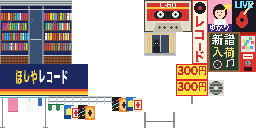
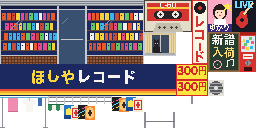
Shrine town: the texture budgets re-split for 2 MB of VRAM, the delivery van and three signs back
The regions use slots 13-1 and 16-31 (slot 0 is the far views' stand-in set): the town 668 KB,
the shrine 460 KB, each with 64 KB reserved for that set and headroom in every zone
(TEXTURES.md, "The budgets"). The shrine's palettes start at 256, leaving the town 0-253. The
delivery van is parked on the front road again, and the record shop's, the coin laundry's and
the crane game's signs are stored at full width.

diff --git a/carts/garden/shrinetown/make_world.py b/carts/garden/shrinetown/make_world.py
@@ -111,14 +111,20 @@ STANDINS = {'distance': 128, 'sweeps': True, 'triangles': 90, 'ground': 32, 'cel
 shrine = json.loads((ST.parent / 'shrine' / 'shrine.world.json').read_text())
 
 # ---- texture regions (TEXTURES.md): the town (rows 0-1) and the shrine (rows 2-5). Each has its own
-# texture set in slots 13-0 (slot 14 holds the swatch row, 15 the fonts); entering one loads its set
-# over the other's. The budgets are the plan's totals, each zone's allowance and the ground's:
-# 380 KB of the town's 448 (15% free) and 300 KB of the shrine's (a third free). The shrine's palette
-# variants (day, night), a copy per region, without its night's water colour (the water is textured:
-# the night's multiply tints it, art/water/APPLY.md); each region its own backdrop, from
-# art/backdrop/backdrop.json (art/backdrop/APPLY.md): a sky and a far view drawn for the streets and
-# one for the shrine's grounds and mountain, with the night's exact colours.
-TEXTURE_BUDGETS = {'town': 380 * 1024, 'shrine': 300 * 1024}
+# texture set in slots 13-1 and 16-31 (VRAM at 2 MB; slot 14 holds the swatch row and the star, 15
+# the fonts, 0 the far views' common stand-in set); entering one loads its set over the other's,
+# about 0.94 cycles a byte, so a budget is also the crossing's cost. The budgets are the zones'
+# allowances, the ground's and 64 KB for the far views: 668 KB for the town, 460 KB for the shrine
+# (TEXTURES.md, "The budgets"). The
+# shrine's palettes start at 256, in palette bank 1, so the town has 0-253 (254 is the star's, 255
+# the fonts'). The shrine's palette variants (day, night), a copy per region, without its night's
+# water colour (the water is textured: the night's multiply tints it, art/water/APPLY.md); each
+# region its own backdrop, from art/backdrop/backdrop.json (art/backdrop/APPLY.md): a sky and a far
+# view drawn for the streets and one for the shrine's grounds and mountain, with the night's exact
+# colours.
+TEXTURE_SLOTS = '13-1,16-31'
+TEXTURE_BUDGETS = {'town': 668 * 1024, 'shrine': 460 * 1024}
+PALETTES = {'shrine': {'first': 256}}
 BD = json.loads((ST / 'art' / 'backdrop' / 'backdrop.json').read_text())
 
 
@@ -133,7 +139,8 @@ def variants(r):
     return v
 
 
-regions = {r: {'textures': {'slots': '13-0', 'budget': TEXTURE_BUDGETS[r]},
+regions = {r: {'textures': {'slots': TEXTURE_SLOTS, 'budget': TEXTURE_BUDGETS[r]},
+               **({'palettes': PALETTES[r]} if r in PALETTES else {}),
                'variants': variants(r),
                'backdrop': {'elevations': BD[r]['elevations'], 'sky': BD[r]['sky'],
                             'silhouette': {'image': f'art/backdrop/{r}_backdrop.png', 'horizon': BD[r]['horizon'],

diff --git a/carts/garden/shrinetown/tools/textures.py b/carts/garden/shrinetown/tools/textures.py
@@ -38,14 +38,18 @@ from worldkit.assets import asset_directories                 # noqa: E402
 from worldkit.textures import allocated                       # noqa: E402
 
 KB = 1024
-# The plan (TEXTURES.md): each region's budget (make_world.py's TEXTURE_BUDGETS) split into the
-# terrain's textures, the shared set and each zone's own tiles.
+# The plan (TEXTURES.md, "The budgets"): each region's budget (make_world.py's TEXTURE_BUDGETS)
+# split into the terrain's textures (with the water and the edges), the shared set, each zone's own
+# tiles and a reserve no part may use: 64 KB for the far views' common stand-in set (tree
+# silhouette cards for the far levels and the stand-ins; slot 0 in every region), counted when it
+# lands. Since VRAM grew to 2 MB (2026-10-05).
 ALLOWANCE = {
-    'town': {'budget': 380 * KB, 'terrain': 40 * KB, 'shared': 48 * KB,
-             'station': 96 * KB, 'street': 143 * KB, 'east': 26 * KB, 'canal': 26 * KB, 'shrine': 1 * KB},
-    'shrine': {'budget': 300 * KB, 'terrain': 120 * KB, 'shared': 48 * KB,
-               'shrine': 88 * KB, 'canal': 36 * KB, 'station': 8 * KB, 'street': 0, 'east': 0},
+    'town': {'budget': 668 * KB, 'terrain': 96 * KB, 'shared': 96 * KB, 'station': 128 * KB,
+             'street': 192 * KB, 'east': 48 * KB, 'canal': 40 * KB, 'shrine': 4 * KB, 'reserve': 64 * KB},
+    'shrine': {'budget': 460 * KB, 'terrain': 152 * KB, 'shared': 64 * KB, 'shrine': 120 * KB,
+               'canal': 48 * KB, 'station': 12 * KB, 'street': 0, 'east': 0, 'reserve': 64 * KB},
 }
+assert all(sum(v for k, v in a.items() if k != 'budget') == a['budget'] for a in ALLOWANCE.values())
 # Props any zone of the region may place: their tiles are the region's shared set's.
 SHARED = {
     'town': ['town_street_lamp', 'street_lamp', 'vending_machine', 'postbox', 'town_road_signs', 'delivery_van',
@@ -178,7 +182,8 @@ def main():
         flag = total > allow['budget']
         over |= flag
         print(f'{region}: {total:,} of {allow["budget"]:,} bytes{" OVER" if flag else ""} '
-              f'({len(every)} tiles; slots 13-0 hold {14 * 32 * KB:,})')
+              f'({len(every)} tiles; entering the region: about {round(total * 0.94 + 33000, -3):,.0f} cycles, TEXTURES.md)')
+        rows.append(('reserve', 0, allow['reserve']))
         for name, used, cap in rows:
             flag = used > cap
             over |= flag

diff --git a/carts/garden/shrinetown/place/street.py b/carts/garden/shrinetown/place/street.py
@@ -214,8 +214,9 @@ def town(g):
         put(f'zelkova_road{k}', 'tree_zelkova', (float(x), 0.0, float(z)), 53 * k)
     for k, x in enumerate((85.0, 115.0, 140.0, 182.0, 204.0)):
         put(f'lamp_road{k}', 'street_lamp', (x, 0.0, 117.2), 90)
-    # (the delivery van, 14 KB of the region's shared set for one prop, is left out: its mirrored
-    # side would read backwards, and the shared set has no room for it whole; TEXTURES.md)
+    # the delivery van, parked in the south lane between the poles at x 70 and 100 (left out while
+    # the town's shared set had no room for its 14 KB; back with 2 MB of VRAM, TEXTURES.md)
+    put('van_road', 'delivery_van', (85.0, 0.0, 108.6), 90)
     put('signs_alley', 'town_road_signs', (100.75, 0.0, 102.9), 180, col='none')
     put('mirror_alley_0', 'traffic_mirror', (124.8, 0.0, 103.3), 180)
     put('mirror_alley_1', 'traffic_mirror', (88.8, 0.0, 103.3), 180)
@@ -339,7 +340,7 @@ LOD = {'ramen_shop': {'distances': [16, 45]}, 'recordshop': {'distances': [20, 5
        # recipes, or never: from the platform the shotengai's lamps and the alleys' props were drawn
        'town_street_lamp': {'cull': 60}, 'street_lamp': {'cull': 70}, 'gachapon': {'cull': 40},
        'jizo': {'cull': 40}, 'town_kanban_set': {'cull': 45}, 'town_road_signs': {'cull': 60},
-       'firepost': {'cull': 50}, 'traffic_mirror': {'cull': 50}, 'kei_truck': {'cull': 60},
+       'firepost': {'cull': 50}, 'traffic_mirror': {'cull': 50}, 'kei_truck': {'cull': 60}, 'delivery_van': {'cull': 60},
        'recycling_station': {'cull': 50}, 'crane_game': {'cull': 45},
        'town_crates_bins': {'cull': 40},
        # the poles with their wires (the sweeps are culled at 56): from over the station the

diff --git a/carts/garden/shrinetown/assets/crane_game/art/make_art.py b/carts/garden/shrinetown/assets/crane_game/art/make_art.py
@@ -52,8 +52,6 @@ def sign():
         star(d, cx, cy, r, (255, 240, 90))
     f = font(18)
     outlined(d, (17, 10), "クレーンゲーム", f, (255, 252, 230), (120, 20, 80), 1)
-    # stored at half width (80 x 40, the face stretches it back): the town's texture budget (TEXTURES.md)
-    im = im.resize((W // 2, H), Image.Resampling.BOX)
     im = im.quantize(colors=48, dither=Image.Dither.NONE).convert("RGB")
     im.save(os.path.join(HERE, "sign.png"))
 
@@ -96,7 +94,6 @@ def side():
     outlined(d, (12, 12), "GET!", font(17), (214, 38, 120), (255, 255, 255), 1)
     d.text((20, 3), "とって", font=font(8), fill=(60, 40, 90))
     d.text((20, 29), "ゲット", font=font(7), fill=(60, 40, 90))
-    im = im.resize((W // 2, H), Image.Resampling.BOX)        # half width: as the sign
     im = im.quantize(colors=24, dither=Image.Dither.NONE).convert("RGB")
     im.save(os.path.join(HERE, "side.png"))
 
@@ -107,7 +104,6 @@ def label():
     d = ImageDraw.Draw(im)
     d.rectangle([0, 0, W - 1, H - 1], outline=(60, 40, 90))
     d.text((6, 1), "とりだしぐち", font=font(13), fill=(60, 40, 90))
-    im = im.resize((W // 2, H), Image.Resampling.BOX)        # half width: as the sign
     im = im.quantize(colors=8, dither=Image.Dither.NONE).convert("RGB")
     im.save(os.path.join(HERE, "label.png"))
 

diff --git a/carts/garden/shrinetown/assets/coin_laundry/make_coin_laundry.py b/carts/garden/shrinetown/assets/coin_laundry/make_coin_laundry.py
@@ -17,9 +17,9 @@ front (110 triangles) is left to the town's `mamachari` placements, and the asht
 plastic chairs went for triangles.
 
 Textures: art/coin_laundry_sheet.png is the lab's sheet (drawn by
-examples/assets/lab/coin_laundry/art/draw_sheet.py), copied by this script with its glass front
-and its sign stored at half width (the faces stretch them back; the town's texture budget,
-TEXTURES.md; needs Pillow); the back door and window come from the shop family's shared
+examples/assets/lab/coin_laundry/art/draw_sheet.py), copied by this script (needs Pillow; the
+glass front and the sign were stored at half width for 1 MB of VRAM, and are whole again with
+2 MB: HALVED); the back door and window come from the shop family's shared
 ../town_shop_2f_a/art/shopfront.png."""
 import json
 from pathlib import Path
@@ -28,7 +28,7 @@ from PIL import Image
 
 HERE = Path(__file__).resolve().parent
 LAB_ART = HERE.parents[4] / 'examples' / 'assets' / 'lab' / 'coin_laundry' / 'art'
-HALVED = ('glass', 'sign')
+HALVED = ()          # the glass front and the sign were halved for 1 MB of VRAM; full width since 2 MB
 
 
 def copy_sheet():

diff --git a/carts/garden/shrinetown/assets/crane_game/gen_crane_game.py b/carts/garden/shrinetown/assets/crane_game/gen_crane_game.py
@@ -5,9 +5,9 @@ Shrine town's UFO catcher: the lab's crane_game (781 triangles) cut to about 200
 cabinet with its slanted console, the glass case with gold posts, the striped marquee with its
 sign, the siren lights and the star stay; the side sticker, the outlet label and the prize hole
 are decals, the console's buttons are in its texture, the claw is a hub and three arms, and three
-plush toys stand in for six. Every texture is 4-bit (the level's palettes, TEXTURES.md), and the
-sign, the side sticker and the outlet label are stored at half width (the town's VRAM). Front is
--Z. 0.94 m wide, 1.28 m deep, 2.2 m tall.
+plush toys stand in for six. Every texture is 4-bit (the level's palettes, TEXTURES.md); the
+sign, the side sticker and the outlet label are at full width again since VRAM grew to 2 MB.
+Front is -Z. 0.94 m wide, 1.28 m deep, 2.2 m tall.
 """
 import json
 import math

diff --git a/carts/garden/shrinetown/assets/recordshop/make_recordshop.py b/carts/garden/shrinetown/assets/recordshop/make_recordshop.py
@@ -237,10 +237,9 @@ def draw_art():
         sheet.paste(im, (x, y))
         CELLS[name] = [x, y, im.size[0], im.size[1]]
 
-    # the glass front and the kanban are stored at half width (the faces stretch them back): the
-    # town's texture budget (TEXTURES.md)
-    put("glass", half_width(draw_glass()), 0, 0)         # 72 x 64 (drawn 144 x 64)
-    put("kanban", half_width(draw_kanban(src)), 0, 64)   # 88 x 32 (drawn 176 x 32)
+    # the glass front and the kanban at full width again (they were halved for 1 MB of VRAM)
+    put("glass", draw_glass(), 0, 0)                     # 144 x 64
+    put("kanban", draw_kanban(src), 0, 64)               # 176 x 32
     put("cassette", lab(src, "cassette"), 144, 0)        # 48 x 32
     put("sode", lab(src, "sode"), 192, 0)                # 16 x 64
     put("poster", lab(src, "poster"), 208, 0)            # 24 x 32

diff --git a/carts/garden/shrinetown/TEXTURES.md b/carts/garden/shrinetown/TEXTURES.md
@@ -2,9 +2,11 @@
 
 How the shrine town's textures fit in VRAM: what the real assets need, the two texture regions,
 where the boundary runs, each zone's allowance for placing the real assets, and the cuts that
-make the town fit. Measured 2026-10-05 on the 110 asset recipes in `assets/` (not `greybox/`) and
-the shrine's 52 in `../shrine/assets/`; the zones are those of the placement split (station,
-street, east, canal, shrine).
+made the town fit in 1 MB. Measured 2026-10-05 on the 110 asset recipes in `assets/` (not
+`greybox/`) and the shrine's 52 in `../shrine/assets/`; the zones are those of the placement split
+(station, street, east, canal, shrine). **Re-split the same day for 2 MB of VRAM**
+(docs/DECISIONS.md, "VRAM at 2 MB"): [The budgets](#the-budgets) and [Palettes](#palettes) are
+current; the plan's tables below them are the 1 MB history.
 
 ## The real need
 
@@ -38,14 +40,79 @@ The ground is not textured yet. The shrine's textured ground is 15 materials, 27
 drawn through a texture window: about 55 cycles a mesh and 10 a visible face more). WORLDKIT.md,
 "Textured terrain", has the rules.
 
-**One region cannot hold it:** 595 KB of assets before the ground, against 448 KB in slots 13–0.
+**With 1 MB, one region could not hold it:** 595 KB of assets before the ground, against 448 KB
+in slots 13–0. With 2 MB a region may use slots 13–0 and 16–31, 960 KB, so one region could hold
+the whole level; the two regions stay, since entering a region copies its whole set and the
+boundary is where the content changes anyway.
+
+## The budgets
+
+Since VRAM grew to 2 MB (2026-10-05). `make_world.py` writes each region's `textures`: slots
+`"13-1,16-31"` and the budget; `tools/textures.py` holds the split. A zone's allowance is what
+it may place; the **reserve** is no part's: 64 KB in each region for the far views' common
+stand-in set (tree silhouette cards for the far levels and the stand-ins, the `far-views`
+branch's `standins.textures`), which takes slot 0 in every region, so the regions' own sets
+leave slot 0 out. That branch also adds hazed copies of the cards' palettes to each region
+([Palettes](#palettes)): the town's 66 free palettes are for those first. The headroom is sized by what
+the zones are likely to want: the delivery van (back, in the town's shared set), the school pool's
+texture (east), 64 × 64 canal and pond textures, lit neighbour windows at night and a textured kerb
+(the ground's allowance, with the water and the edges), and the signs restored at full width.
+
+| Region | Part | Placed now | Allowance | Headroom |
+|---|---|---|---|---|
+| town | ground (the terrain's textures, the water, the edges) | 40,128 | 98,304 (96 KB) | 58,176 |
+| town | shared props | 61,024 | 98,304 (96 KB) | 37,280 |
+| town | station zone | 97,088 | 131,072 (128 KB) | 33,984 |
+| town | street zone | 154,208 | 196,608 (192 KB) | 42,400 |
+| town | east zone | 18,304 | 49,152 (48 KB) | 30,848 |
+| town | canal zone (rows 0–1) | 24,960 | 40,960 (40 KB) | 16,000 |
+| town | shrine zone (the great torii) | 192 | 4,096 (4 KB) | 3,904 |
+| town | reserve (the far views' stand-in set, slot 0) | 0 | 65,536 (64 KB) | 65,536 |
+| town | **budget** | **395,904** | **684,032 (668 KB)** | **288,128** |
+| shrine | ground (the terrain's textures, the water) | 110,144 | 155,648 (152 KB) | 45,504 |
+| shrine | shared props | 29,760 | 65,536 (64 KB) | 35,776 |
+| shrine | shrine zone | 46,112 | 122,880 (120 KB) | 76,768 |
+| shrine | canal zone (rows 2–5) | 30,304 | 49,152 (48 KB) | 18,848 |
+| shrine | station zone (the viaduct in c4_2) | 1,664 | 12,288 (12 KB) | 10,624 |
+| shrine | reserve (the far views' stand-in set, slot 0) | 0 | 65,536 (64 KB) | 65,536 |
+| shrine | **budget** | **217,984** | **471,040 (460 KB)** | **253,056** |
+
+"Placed now" is `tools/textures.py --report` on the world as built (the delivery van back, the
+three restored signs in). The town's 668 KB is about 21 slots' worth and the shrine's 460 KB 14½;
+the packer may use any of the 29 (13–1, 16–31).
+
+**The crossing.** Entering a region copies its texture set (`wp_region_enter()`: `memcpy`, about
+0.95 cycles a byte), its palettes and its backdrop art; the frame that crosses z 128 does that on
+top of its own work. Measured on the console (`wp_region_enter()` timed with `cycle_count()` on the
+built pack):
+
+| Entering | Texture set | Cycles now | At the full budget (estimate) |
+|---|---|---|---|
+| the town (crossing south) | 394,752 bytes of copies (13 slots' rows) | 404,459 (371,163 the textures) | about 675,000 (668 KB) |
+| the shrine (crossing north) | 247,168 bytes (8 slots' rows) | 264,893 (232,408 the textures) | about 475,000 (460 KB) |
+
+Before the re-split the town's entry was 382,960 (the van and the three signs add 21,500). The
+palettes and the backdrop's art are about 33,000 of each entry; the rest is 0.94 cycles a byte of
+texels.
+
+A frame that goes past 1,000,000 CPU cycles is shown a tick late. (Whether the far views' slot 0 is copied on entering a region is that
+branch's; if it is, add about 60,000 to each entry.) The heaviest frames
+within 16 m of the line, as the World Checker measures them, are about 515,000 (views 228, 262,
+263: the canal's and the cemetery lane's ends of the courtyard row). **Now neither crossing
+hitches:** about 920,000 entering the town, 780,000 entering the shrine. Filled to its budget, the
+shrine's entry still fits (about 990,000); **the town's would not** (about 1,190,000: one frame
+shown a tick late, no more, since it stays under 2,000,000). The town fits a frame up to about
+470 KB of textures, 75 KB more than now. Past that the fix is the seam WORLDKIT.md, "Region
+seams", describes and the World Kit can already do: entering the region a slot a frame
+(`wp_texture_load()`) while the player is in the 24 m of open ground the line runs through,
+rather than the whole set at once (`follow_region()` in `game.akr`).
 
 ## The regions
 
 | Region | Cells | Slots | Budget | Free | Palette variants, backdrop |
 |---|---|---|---|---|---|
-| `town` | rows 0–1 (z < 128): 10 cells | 13–0 (458,752) | 389,120 (380 KB) | 15% | the shrine's `day`, `night`; its own (art/backdrop) |
-| `shrine` | rows 2–5 (z ≥ 128): 20 cells | 13–0 (458,752) | 307,200 (300 KB) | 33% | the same variants; its own backdrop |
+| `town` | rows 0–1 (z < 128): 10 cells | 13–1, 16–31 (950,272) | 684,032 (668 KB) | 42% | the shrine's `day`, `night`; its own (art/backdrop) |
+| `shrine` | rows 2–5 (z ≥ 128): 20 cells | 13–1, 16–31 (950,272) | 471,040 (460 KB) | 54% | the same variants; its own backdrop |
 
 `layout.py`'s `region_of(i, j)` says which region a cell is in; the three generators write it into
 the cells and `make_world.py` writes the regions, their `textures` (`slots`, `budget`) and the
@@ -57,9 +124,8 @@ regions is in both sets and loaded with each. DESIGN.md 8.5's common set (asphal
 signs, shared with the city levels) is a plan, not a kit feature; here it is the 10 KB in both.
 
 **Entering a region.** The garden cart enters the region of the cell the player stands in when it
-changes (`game.akr`, `follow_region()`): `wp_region_enter()` copies the region's whole set, about
-56,000 cycles a 32 KB slot, at once. The town's set will be 12 slots or so (about 670,000 cycles),
-the shrine's about 9 (500,000): the frame of a crossing is late. Near cells of the region not
+changes (`game.akr`, `follow_region()`): `wp_region_enter()` copies the region's whole set at
+once (measured: [The budgets](#the-budgets), "The crossing"). Near cells of the region not
 entered draw as their stand-ins.
 
 **Stand-ins.** A stand-in is drawn whichever region is loaded, so in a world with two regions the
@@ -110,8 +176,22 @@ The future downtown district (DESIGN.md 7.1) would be a third region, entered un
 
 ## Palettes
 
-Regions get disjoint palettes and every region's are loaded at once (WORLDKIT.md, "Palettes per
-region"). A world has 255 4-bit palettes (0–254; 255 is the fonts'), and each 8-bit palette takes
+**Now (2 MB).** There are 512 4-bit palettes in two banks: 0–255 and 256–511 (WORLDKIT.md,
+"Palettes per region"). `make_world.py` starts the shrine's palettes at 256, so the town has
+bank 0 to itself: palettes 0–253, since 254 is the star's and 255 the fonts'. The town uses
+0–187, the shrine 256–320 (`report.json`'s `regions.NAME.palette.palettes`):
+
+| Region | Range | Used | Ceiling | Headroom |
+|---|---|---|---|---|
+| town | 0–253 | 188 | 254 | 66 |
+| shrine | 256–511 | 65 | 256, less 16 for each 8-bit palette (from 511 down) | 191 |
+
+The town was the binding limit (palettes 0–185 of the 254 the two regions shared, the shrine
+186–250). 8-bit textures are possible again: the World Kit takes 8-bit palettes from 31 down
+(colours 7936 on, the top of bank 1), so each costs the shrine's range 16 palettes, not the town's.
+
+**Before (1 MB).** Regions get disjoint palettes and every region's are loaded at once
+(WORLDKIT.md, "Palettes per region"). A world has 255 4-bit palettes (0–254; 255 is the fonts'), and each 8-bit palette takes
 16 of them from 14 downward (8-bit palette 14 is 4-bit palettes 224–239). The planned placements
 need, by the kit's own packing (`kitcore/texpack.py`, `assign_palettes`; entries are the assets'
 palette-backed colours, 15 to a palette):
@@ -135,7 +215,7 @@ some palettes of their own), about 20 to spare. So:
 - The kit change that removes the limit (not built): the regions' texture palettes in one range,
   loaded with the region's set, so only the entries, far colours and backdrop stay disjoint.
 
-## Allowances for the placement agents
+## Allowances for the placement agents (1 MB: superseded by [The budgets](#the-budgets))
 
 Each zone's own tiles, its share of the region's shared set and the ground's, against the region's
 budget. A tile of a shared prop (the list below), or one two zones use, is the shared set's; a
@@ -213,7 +293,17 @@ fewer windows.
 
 ## Cuts (the town)
 
-Not made: they are the asset owners' and the zone agents' to make. Exact where a texture goes from
+**With 2 MB.** The zone agents made most of the cuts below (the station's in 29a1ee6, the street's
+and the shared props' in 397ef69). Restored with the re-split, each a generator change that shows:
+the record shop's glass front and kanban, the coin laundry's glass front and sign, and the crane
+game's sign, side sticker and outlet label are stored at full width again (their text was smeared
+at half width; +10,944 bytes, the street's), and the delivery van is back on the front road
+(`place/street.py`, `van_road`, south lane at x 85; +14,272, the town's shared set). The 8-bit to
+4-bit conversions stay (each would double its bytes and cost 16 palettes), as do the merged and
+repeating images (the same picture either way) and the newsstand's halved cells (its sheet was
+re-laid around them).
+
+**The plan (1 MB).** Not made at the time: they are the asset owners' and the zone agents' to make. Exact where a texture goes from
 8-bit to 4-bit (half its bytes) or is replaced; "about" where it is halved, which depends on the
 art. Each list is more than its zone needs.
 

diff --git a/carts/garden/shrinetown/DESIGN.md b/carts/garden/shrinetown/DESIGN.md
@@ -899,7 +899,9 @@ are designed to do three other things.
 
 *Superseded by [TEXTURES.md](TEXTURES.md) (2026-10-05):* the real assets need 595 KB
 deduplicated before the ground, so the level is two regions, the town and the shrine, each with
-its own 14 slots, split at z = 128; the World Kit has no common set.
+its own 14 slots, split at z = 128; the World Kit has no common set. With VRAM at 2 MB (the same
+day) each region may use 29 slots; the town's budget is 668 KB and the shrine's 460 KB
+(TEXTURES.md, "The budgets").
 
 The built shrine uses 13 slots (326 KB), 272 KB of it for 16 ground tiles. The town adds
 shopfronts, signs, concrete and rail. Plan:

diff --git a/carts/garden/README.md b/carts/garden/README.md
@@ -143,8 +143,8 @@ A star turns in its glint (`glint.akr`, `GLINT_MOON`) and is drawn within 160 m 
 star taken shows its back, still, and touching it again does nothing. The screen shows the
 world's stars taken (`moon 2/5`), the red coins once one is taken, and a challenge's clock.
 
-**Worlds may use** texture slots 13–0 and 4-bit palettes 0–253: slot 14 (beyond the swatch row)
-and palette 254 are the star's.
+**Worlds may use** texture slots 13–0 and 16–31 and 4-bit palettes 0–253 and 256–511 (VRAM at
+2 MB): slot 14 (beyond the swatch row) and palette 254 are the star's.
 
 ## Gates
 
